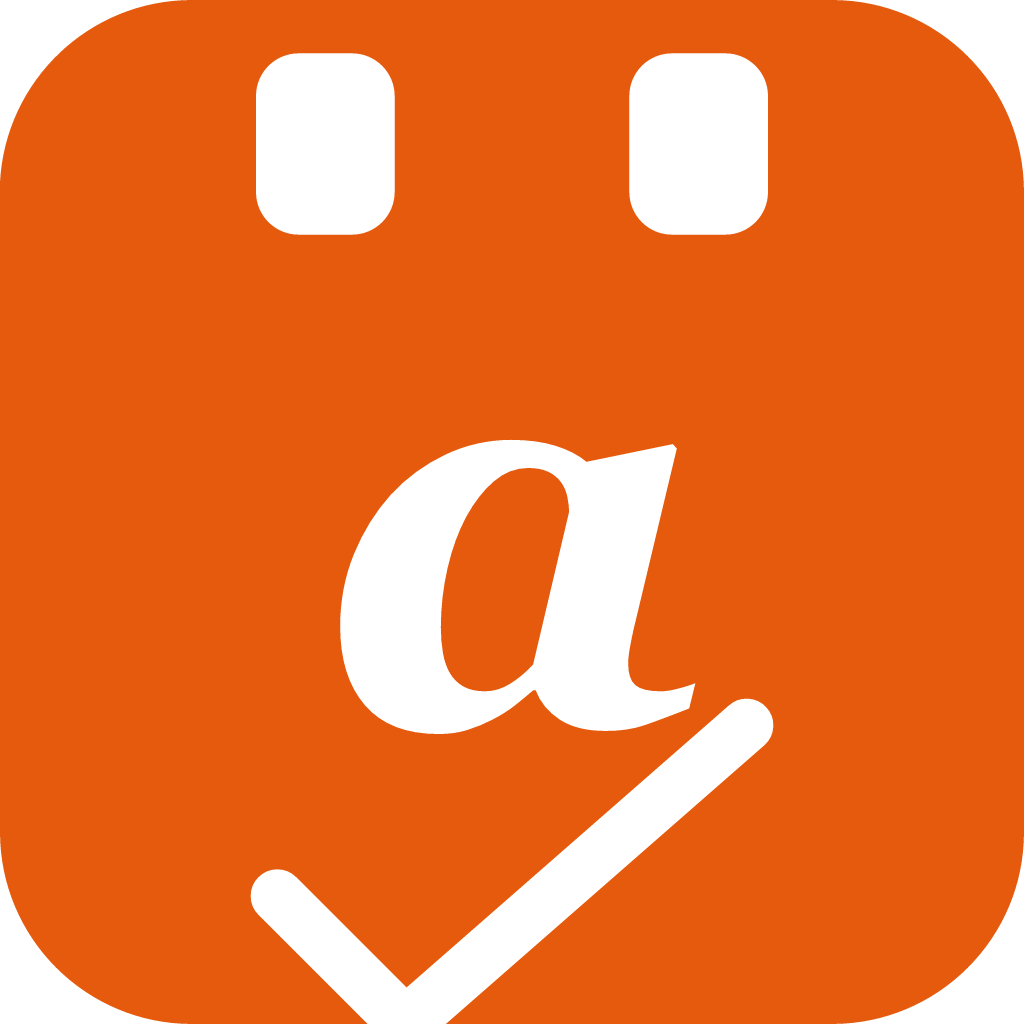
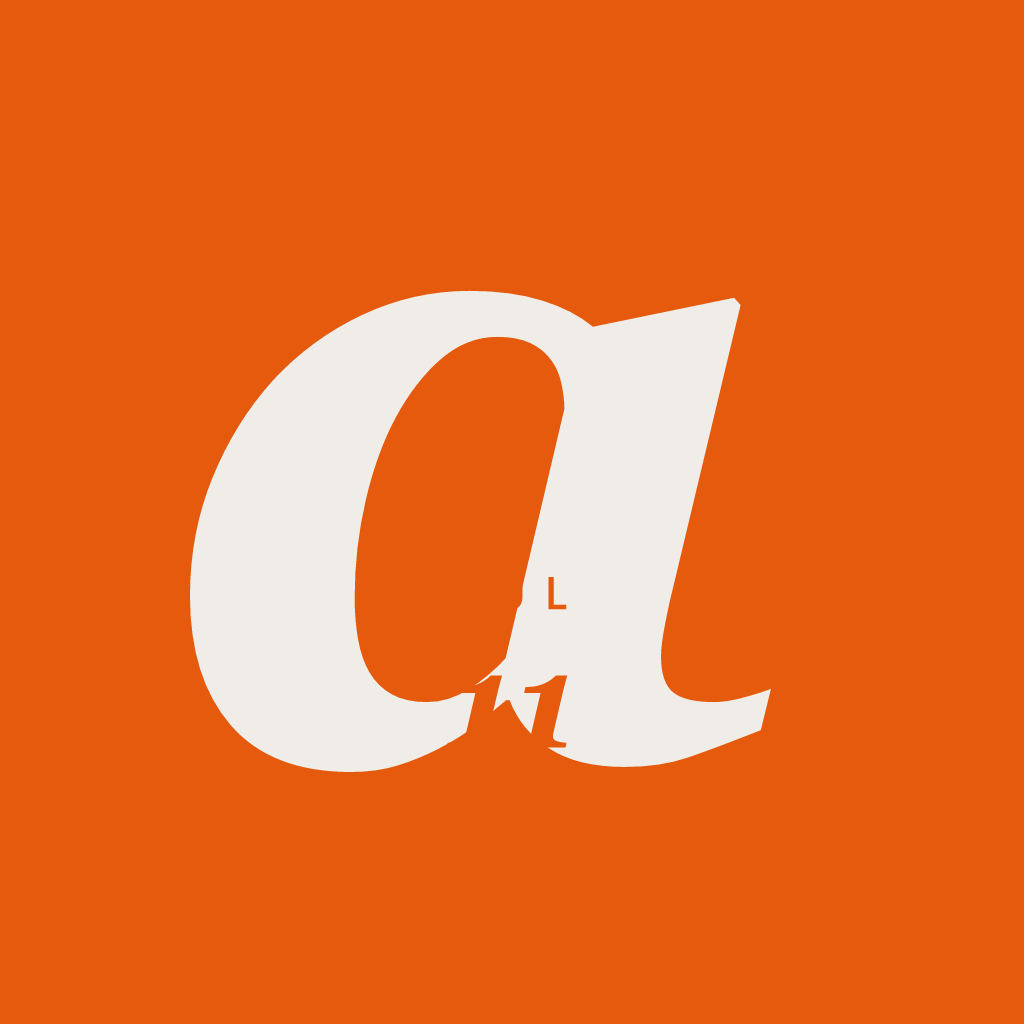
feat: identidade visual Agenda O Instante — mark, lockup, ícones PWA e OG v42
SVG mark com 'a' itálico Cormorant Garamond em fundo brasa #E55A0C, variantes bone/ink/small,
lockup horizontal, wordmark. PNGs gerados (96/192/512/1024, maskable, apple-touch, OG).
Favicon SVG atualizado, manifest.json com cores e ícones da nova marca.
Heads e lockups de agendar.html, painel.html, index.html, admin.html, marketplace.html,
onboarding.html atualizados.

diff --git a/generate-icons.js b/generate-icons.js
@@ -1,0 +1,153 @@
+// generate-icons.js — gera todos os PNG da marca usando @resvg/resvg-js
+// Uso: node generate-icons.js
+
+const { Resvg } = require('@resvg/resvg-js');
+const fs = require('fs');
+const path = require('path');
+
+const RESVG_OPTS = {
+  font: {
+    loadSystemFonts: true,
+    serifFamily: 'Georgia',
+    sansSerifFamily: 'Segoe UI',
+  },
+  shapeRendering: 2,
+  textRendering: 1,
+  imageRendering: 0,
+};
+
+function renderPng(svgStr, size) {
+  const resvg = new Resvg(svgStr, {
+    ...RESVG_OPTS,
+    fitTo: { mode: 'width', value: size },
+  });
+  return resvg.render().asPng();
+}
+
+// SVG mark com inscrição (para ≥ 96px)
+const markFull = `<svg xmlns="http://www.w3.org/2000/svg" viewBox="0 0 200 200">
+  <rect width="200" height="200" fill="#E55A0C"/>
+  <text font-family="Georgia, serif" font-style="italic" font-weight="700" fill="#F0EDE8"
+    x="92" y="148" font-size="184" text-anchor="middle">a</text>
+  <text font-family="'Segoe UI', Arial, sans-serif" font-weight="600" fill="#E55A0C"
+    x="100" y="119" font-size="9" text-anchor="middle" letter-spacing="3.6">JUL</text>
+  <text font-family="Georgia, serif" font-style="italic" font-weight="700" fill="#E55A0C"
+    x="100" y="146" font-size="26" text-anchor="middle">11</text>
+</svg>`;
+
+// SVG mark sem inscrição (para < 96px — favicons)
+const markSmall = `<svg xmlns="http://www.w3.org/2000/svg" viewBox="0 0 200 200">
+  <rect width="200" height="200" rx="36" fill="#E55A0C"/>
+  <text font-family="Georgia, serif" font-style="italic" font-weight="700" fill="#F0EDE8"
+    x="92" y="152" font-size="184" text-anchor="middle">a</text>
+</svg>`;
+
+// SVG mark maskable — com padding 20% (safe-zone iOS/Android)
+const markMaskable = `<svg xmlns="http://www.w3.org/2000/svg" viewBox="0 0 200 200">
+  <rect width="200" height="200" fill="#E55A0C"/>
+  <g transform="translate(20,20) scale(0.8)">
+    <text font-family="Georgia, serif" font-style="italic" font-weight="700" fill="#F0EDE8"
+      x="92" y="148" font-size="184" text-anchor="middle">a</text>
+    <text font-family="'Segoe UI', Arial, sans-serif" font-weight="600" fill="#E55A0C"
+      x="100" y="119" font-size="9" text-anchor="middle" letter-spacing="3.6">JUL</text>
+    <text font-family="Georgia, serif" font-style="italic" font-weight="700" fill="#E55A0C"
+      x="100" y="146" font-size="26" text-anchor="middle">11</text>
+  </g>
+</svg>`;
+
+// OG image 1200x630
+const ogImage = `<svg xmlns="http://www.w3.org/2000/svg" viewBox="0 0 1200 630">
+  <rect width="1200" height="630" fill="#0E0E0F"/>
+  <!-- Mark 400x400 centrado verticalmente à esquerda -->
+  <g transform="translate(115,115)">
+    <rect width="400" height="400" fill="#E55A0C"/>
+    <text font-family="Georgia, serif" font-style="italic" font-weight="700" fill="#F0EDE8"
+      x="184" y="296" font-size="368" text-anchor="middle">a</text>
+    <text font-family="'Segoe UI', Arial, sans-serif" font-weight="600" fill="#E55A0C"
+      x="200" y="238" font-size="18" text-anchor="middle" letter-spacing="7.2">JUL</text>
+    <text font-family="Georgia, serif" font-style="italic" font-weight="700" fill="#E55A0C"
+      x="200" y="292" font-size="52" text-anchor="middle">11</text>
+  </g>
+  <!-- Separador -->
+  <rect x="580" y="140" width="1" height="350" fill="#F0EDE8" opacity="0.15"/>
+  <!-- Wordmark -->
+  <text font-family="Georgia, serif" font-style="italic" font-weight="700" fill="#F0EDE8"
+    x="620" y="360" font-size="120" letter-spacing="-1">agenda</text>
+  <!-- Tagline -->
+  <text font-family="'Segoe UI', Arial, sans-serif" fill="#A09890"
+    x="622" y="410" font-size="26" letter-spacing="2">o tempo, com intenção</text>
+</svg>`;
+
+// OG quadrado 1200x1200
+const ogSquare = `<svg xmlns="http://www.w3.org/2000/svg" viewBox="0 0 1200 1200">
+  <rect width="1200" height="1200" fill="#0E0E0F"/>
+  <g transform="translate(200,240)">
+    <rect width="800" height="800" fill="#E55A0C"/>
+    <text font-family="Georgia, serif" font-style="italic" font-weight="700" fill="#F0EDE8"
+      x="368" y="592" font-size="736" text-anchor="middle">a</text>
+    <text font-family="'Segoe UI', Arial, sans-serif" font-weight="600" fill="#E55A0C"
+      x="400" y="476" font-size="36" text-anchor="middle" letter-spacing="14.4">JUL</text>
+    <text font-family="Georgia, serif" font-style="italic" font-weight="700" fill="#E55A0C"
+      x="400" y="584" font-size="104" text-anchor="middle">11</text>
+  </g>
+  <text font-family="Georgia, serif" font-style="italic" font-weight="700" fill="#F0EDE8"
+    x="600" y="1110" font-size="80" text-anchor="middle" letter-spacing="-1">agenda</text>
+</svg>`;
+
+const jobs = [
+  // PWA icons (com inscrição)
+  { svg: markFull,      size: 1024, out: 'icon-1024.png' },
+  { svg: markFull,      size: 512,  out: 'icon-512.png' },
+  { svg: markFull,      size: 192,  out: 'icon-192.png' },
+  { svg: markFull,      size: 96,   out: 'icon-96.png' },
+  // Maskable (safe-zone)
+  { svg: markMaskable,  size: 512,  out: 'icon-512-maskable.png' },
+  { svg: markMaskable,  size: 192,  out: 'icon-192-maskable.png' },
+  // Apple Touch Icon
+  { svg: markFull,      size: 180,  out: 'apple-touch-icon.png' },
+  // Favicons pequenos (sem inscrição)
+  { svg: markSmall,     size: 48,   out: 'favicon-48.png' },
+  { svg: markSmall,     size: 32,   out: 'favicon-32.png' },
+  { svg: markSmall,     size: 16,   out: 'favicon-16.png' },
+  // favicon.png geral
+  { svg: markFull,      size: 96,   out: 'favicon.png' },
+  // OG images (em subpasta og/)
+  { svg: ogImage,       size: 1200, out: 'og/og-image.png',  h: 630 },
+  { svg: ogSquare,      size: 1200, out: 'og/og-square.png' },
+];
+
+function ensureDir(filePath) {
+  const dir = path.dirname(filePath);
+  if (!fs.existsSync(dir)) fs.mkdirSync(dir, { recursive: true });
+}
+
+(async () => {
+  let ok = 0, fail = 0;
+  for (const job of jobs) {
+    try {
+      const opts = {
+        ...RESVG_OPTS,
+        fitTo: job.h
+          ? { mode: 'original' }
+          : { mode: 'width', value: job.size },
+      };
+      // Para OG com dimensões específicas, usar zoom
+      let svgStr = job.svg;
+      if (job.h) {
+        // Forçar dimensão via viewBox já definido no SVG
+        opts.fitTo = { mode: 'width', value: job.size };
+      }
+      const resvg = new Resvg(svgStr, opts);
+      const png = resvg.render().asPng();
+      const outPath = path.join(__dirname, job.out);
+      ensureDir(outPath);
+      fs.writeFileSync(outPath, png);
+      console.log(`✓ ${job.out} (${job.size}px)`);
+      ok++;
+    } catch (e) {
+      console.error(`✗ ${job.out}: ${e.message}`);
+      fail++;
+    }
+  }
+  console.log(`\nPronto: ${ok} gerados, ${fail} falhas`);
+})();

diff --git a/painel.html b/painel.html
@@ -6,14 +6,15 @@
   <meta name="viewport" content="width=device-width,initial-scale=1,viewport-fit=cover">
   <title>Painel — Agenda</title>
   <meta name="robots" content="noindex,nofollow">
-  <link rel="icon" type="image/png" href="/favicon.png">
-  <link rel="apple-touch-icon" href="/icon-192.png">
+  <link rel="icon" type="image/svg+xml" href="/favicon.svg">
+  <link rel="icon" type="image/png" sizes="32x32" href="/favicon-32.png">
+  <link rel="alternate icon" href="/favicon.png">
+  <link rel="apple-touch-icon" sizes="180x180" href="/apple-touch-icon.png">
   <link rel="manifest" href="/manifest.json">
+  <meta name="theme-color" content="#E55A0C">
   <link rel="preconnect" href="https://fonts.googleapis.com">
   <link rel="preconnect" href="https://fonts.gstatic.com" crossorigin>
-  <link
-    href="https://fonts.googleapis.com/css2?family=Sora:wght@600;700;800;900&family=Nunito+Sans:wght@400;600;700;800&family=Manrope:wght@400;600;700;800&family=JetBrains+Mono:wght@400;700&display=swap"
-    rel="stylesheet">
+  <link href="https://fonts.googleapis.com/css2?family=Cormorant+Garamond:ital,wght@0,500;1,500&family=Sora:wght@600;700;800;900&family=Nunito+Sans:wght@400;600;700;800&family=Manrope:wght@400;600;700;800&family=JetBrains+Mono:wght@400;700&display=swap" rel="stylesheet">
   <link rel="stylesheet" href="/css/tokens.css?v=30">
   <style>
     /* ── RESET ── */
@@ -3123,8 +3124,8 @@
   <div id="loginWrap">
     <div class="lbox">
       <div class="llogo">
-        <img src="/favicon.png" width="36" height="36" alt="Agenda" style="border-radius:8px;display:block;flex-shrink:0">
-        <span class="wordmark" style="font-size:22px;color:#fff">Agenda<span class="wm-dot"></span></span>
+        <img src="/brand/agenda-mark-small.svg" alt="" width="36" height="36" style="display:block;flex-shrink:0;border-radius:8px">
+        <span style="font-family:'Cormorant Garamond',Georgia,serif;font-style:italic;font-weight:500;font-size:24px;letter-spacing:-.01em;color:#F0EDE8;line-height:1">agenda</span>
       </div>
       <p class="lsub">Painel de gestão</p>
       <div class="login-erro" id="loginErro"></div>
@@ -3161,12 +3162,12 @@
     <!-- SIDEBAR (desktop) -->
     <aside class="app-sidebar">
       <a class="sb-logo" href="#" onclick="tabSidebar('agenda',document.querySelector('[data-tab=agenda]'));return false" style="text-decoration:none;cursor:pointer">
-        <img src="/favicon.png" width="28" height="28" alt="Agenda" style="border-radius:6px;display:block;flex-shrink:0">
-        <span class="sb-brand">AGENDA</span>
+        <img src="/brand/agenda-mark-small.svg" alt="" width="28" height="28" style="border-radius:6px;display:block;flex-shrink:0">
+        <span class="sb-brand" style="font-family:'Cormorant Garamond',Georgia,serif;font-style:italic;font-weight:500;letter-spacing:-.01em">agenda</span>
       </a>
       <nav class="sb-nav">
         <button class="sb-item tnav on" data-tab="agenda" onclick="tabSidebar('agenda',this)"> <span
-            class="sb-icon"><img src="/favicon.png" width="20" height="20" alt="" style="border-radius:5px;display:block"></span>Agenda</button>
+            class="sb-icon"><img src="/brand/agenda-mark-small.svg" alt="" width="20" height="20" style="border-radius:5px;display:block"></span>Agenda</button>
         <button class="sb-item tnav" data-tab="clientes" onclick="tabSidebar('clientes',this)"> <span
             class="sb-icon">👤</span>Clientes</button>
         <button class="sb-item tnav" data-tab="servicos" onclick="tabSidebar('servicos',this)"> <span
@@ -3190,7 +3191,7 @@
       <header class="topbar">
         <a class="topbar-logo-link" href="#"
           onclick="tabBottom('agenda',document.querySelector('[data-tab=agenda]'));return false">
-          <img src="/favicon.png" width="28" height="28" alt="Agenda" style="border-radius:6px;display:block">
+          <img src="/brand/agenda-mark-small.svg" alt="" width="28" height="28" style="border-radius:6px;display:block">
         </a>
         <div class="topbar-name" id="hdrNome">Carregando…</div>
         <div class="topbar-actions">
@@ -3231,7 +3232,7 @@
       <!-- BOTTOM NAV (mobile) -->
       <nav class="app-bottom">
         <button class="bnav-item tnav on" data-tab="agenda" onclick="tabBottom('agenda',this)"> <span
-            class="bnav-icon"><img src="/favicon.png" width="22" height="22" alt="" style="border-radius:5px;display:block"></span>Agenda</button>
+            class="bnav-icon"><img src="/brand/agenda-mark-small.svg" alt="" width="22" height="22" style="border-radius:5px;display:block"></span>Agenda</button>
         <button class="bnav-item tnav" data-tab="clientes" onclick="tabBottom('clientes',this)"> <span
             class="bnav-icon">👤</span>Clientes</button>
         <button class="bnav-item tnav" data-tab="servicos" onclick="tabBottom('servicos',this)"> <span

diff --git a/agendar.html b/agendar.html
@@ -12,10 +12,14 @@
 <meta name="twitter:title" id="twTitle" content="Agende seu horário — Agenda">
 <meta name="description" content="Agende seu horário online. Escolha o serviço, dia e horário em menos de 1 minuto.">
 <meta name="robots" content="index,follow">
-<link rel="icon" type="image/png" href="/favicon.png">
+<link rel="icon" type="image/svg+xml" href="/favicon.svg">
+<link rel="icon" type="image/png" sizes="32x32" href="/favicon-32.png">
+<link rel="alternate icon" href="/favicon.png">
+<link rel="apple-touch-icon" sizes="180x180" href="/apple-touch-icon.png">
+<meta name="theme-color" content="#E55A0C">
 <link rel="preconnect" href="https://fonts.googleapis.com">
 <link rel="preconnect" href="https://fonts.gstatic.com" crossorigin>
-<link href="https://fonts.googleapis.com/css2?family=Sora:wght@300;400;600;700;800&family=Nunito+Sans:wght@300;400;600&family=Manrope:wght@400;600;700;800&family=JetBrains+Mono:wght@400;700&display=swap" rel="stylesheet">
+<link href="https://fonts.googleapis.com/css2?family=Cormorant+Garamond:ital,wght@0,500;1,500&family=Sora:wght@300;400;600;700;800&family=Nunito+Sans:wght@300;400;600&family=Manrope:wght@400;600;700;800&family=JetBrains+Mono:wght@400;700&display=swap" rel="stylesheet">
 <link rel="stylesheet" href="/css/tokens.css?v=30">
 <style>
 /* ═══════════════════════════════════════════════════════════════
@@ -1011,9 +1015,10 @@ html.t-feminine .ag-confirm-bar { display: none; }
 }
 
 
-.wordmark{font-family:'Sora',sans-serif;font-weight:800;letter-spacing:-.04em;color:var(--text,#1D1D1F);display:inline-flex;align-items:baseline;line-height:1}
-.wm-dot{display:inline-block;width:.2em;height:.2em;border-radius:50%;background:#E55A0C;margin-left:2px;position:relative;top:-.52em;flex-shrink:0}
-.brand-lockup{display:inline-flex;align-items:center;gap:10px;text-decoration:none}
+.brand-lockup{display:inline-flex;align-items:center;gap:12px;text-decoration:none;color:inherit}
+.brand-mark{display:block;height:32px;width:32px;flex-shrink:0;border-radius:7px}
+.brand-wordmark{font-family:'Cormorant Garamond',Georgia,serif;font-style:italic;font-weight:500;font-size:22px;letter-spacing:-.01em;color:#fff;line-height:1}
+@media(max-width:480px){.brand-mark{height:28px;width:28px}.brand-wordmark{font-size:19px}}
 
 /* ── New theme system (Agenda v2) ── */
 html.t-azure{--c-primary:#3B82F6;--c-bg:#F0F4FF;--c-card:#fff;--c-text:#0F172A;--c-text2:#475569}
@@ -1353,17 +1358,19 @@ html.t-feminine .ws-srv-price{color:#AD1457}
 .cart-total-lbl{font-size:14px;color:var(--c-text-2);font-weight:600}
 .cart-total-val{font-family:var(--font-head);font-size:20px;font-weight:800;color:var(--c-text)}
 </style>
-  <meta property="og:image" content="https://agendatop.vercel.app/icon-512.png">
-  <meta name="twitter:image" content="https://agendatop.vercel.app/icon-512.png">
+  <meta property="og:image" content="https://agendatop.vercel.app/og/og-image.png">
+  <meta property="og:image:width" content="1200">
+  <meta property="og:image:height" content="630">
+  <meta name="twitter:image" content="https://agendatop.vercel.app/og/og-image.png">
 </head>
 <body>
 
 <!-- HEADER -->
 <header class="ag-header">
   <div class="ag-logo">
-    <a href="/" class="brand-lockup" style="display:inline-flex;align-items:center;gap:8px;text-decoration:none">
-      <img src="/favicon.png" width="32" height="32" alt="Agenda" style="border-radius:7px;display:block;flex-shrink:0">
-      <span class="ag-brand-word" style="font-family:'Sora',sans-serif;font-weight:800;font-size:22px;letter-spacing:-.04em;color:#fff;display:inline-flex;align-items:baseline;line-height:1;user-select:none;pointer-events:none">Agenda<span style="display:inline-block;width:4px;height:4px;border-radius:50%;background:#E55A0C;margin-left:2px;position:relative;top:-11px"></span></span>
+    <a href="/" class="brand-lockup">
+      <img src="/brand/agenda-mark-small.svg" alt="" class="brand-mark">
+      <span class="brand-wordmark">agenda</span>
     </a>
   </div>
   <div class="ag-salon-name" id="hdrName">Carregando…</div>

diff --git a/index.html b/index.html
@@ -11,14 +11,20 @@
 <meta name="twitter:card" content="summary_large_image">
 <meta property="og:title" content="Agenda — Agendamento online para qualquer profissional">
 <meta property="og:description" content="Crie sua página de agendamento em 3 minutos. Seus clientes marcam horário sozinhos, 24h por dia.">
-<meta property="og:image" content="https://agendatop.vercel.app/icon-512.png">
+<meta property="og:image" content="https://agendatop.vercel.app/og/og-image.png">
+<meta property="og:image:width" content="1200">
+<meta property="og:image:height" content="630">
 <meta property="og:url" content="https://agendatop.vercel.app/">
 <meta property="og:site_name" content="Agenda">
-<link rel="icon" type="image/png" href="/favicon.png">
+<link rel="icon" type="image/svg+xml" href="/favicon.svg">
+<link rel="icon" type="image/png" sizes="32x32" href="/favicon-32.png">
+<link rel="alternate icon" href="/favicon.png">
+<link rel="apple-touch-icon" sizes="180x180" href="/apple-touch-icon.png">
 <link rel="manifest" href="/manifest.json">
+<meta name="theme-color" content="#E55A0C">
 <link rel="preconnect" href="https://fonts.googleapis.com">
 <link rel="preconnect" href="https://fonts.gstatic.com" crossorigin>
-<link href="https://fonts.googleapis.com/css2?family=Sora:wght@300;400;600;700;800&family=Nunito+Sans:wght@300;400;600&family=Manrope:wght@400;600;700;800&family=JetBrains+Mono:wght@400;700&display=swap" rel="stylesheet">
+<link href="https://fonts.googleapis.com/css2?family=Cormorant+Garamond:ital,wght@0,500;1,500&family=Sora:wght@300;400;600;700;800&family=Nunito+Sans:wght@300;400;600&family=Manrope:wght@400;600;700;800&family=JetBrains+Mono:wght@400;700&display=swap" rel="stylesheet">
 <link rel="stylesheet" href="/css/tokens.css">
 <style>
 *{box-sizing:border-box;margin:0;padding:0;-webkit-tap-highlight-color:transparent}
@@ -286,10 +292,10 @@ footer strong{color:var(--text);font-weight:800}
 <!-- NAV -->
 <nav>
   <div class="logo-nav">
-    <div class="logo-inner brand-lockup">
-      <img src="/favicon.png" width="32" height="32" alt="Agenda" style="border-radius:7px;display:block;flex-shrink:0">
-      <span class="wordmark" style="font-size:17px">Agenda<span class="wm-dot"></span></span>
-    </div>
+    <a href="/" class="logo-inner" style="display:flex;align-items:center;gap:10px;text-decoration:none">
+      <img src="/brand/agenda-mark-small.svg" alt="" width="32" height="32" style="display:block;flex-shrink:0;border-radius:7px">
+      <span style="font-family:'Cormorant Garamond',Georgia,serif;font-style:italic;font-weight:500;font-size:22px;letter-spacing:-.01em;color:#F0EDE8;line-height:1">agenda</span>
+    </a>
     <div class="logo-line"></div>
   </div>
   <div class="nav-r">

diff --git a/onboarding.html b/onboarding.html
@@ -4,11 +4,16 @@
 <meta charset="UTF-8">
 <meta name="viewport" content="width=device-width,initial-scale=1,viewport-fit=cover">
 <title>Configurar minha Agenda</title>
-<link rel="icon" type="image/png" href="/favicon.png"><link rel="stylesheet" href="/design-tokens.css?v=1">
+<link rel="icon" type="image/svg+xml" href="/favicon.svg">
+<link rel="icon" type="image/png" sizes="32x32" href="/favicon-32.png">
+<link rel="alternate icon" href="/favicon.png">
+<link rel="apple-touch-icon" sizes="180x180" href="/apple-touch-icon.png">
+<meta name="theme-color" content="#E55A0C">
+<link rel="stylesheet" href="/design-tokens.css?v=1">
 <link rel="stylesheet" href="/css/tokens.css">
 <link rel="preconnect" href="https://fonts.googleapis.com">
 <link rel="preconnect" href="https://fonts.gstatic.com" crossorigin>
-<link href="https://fonts.googleapis.com/css2?family=Sora:wght@300;400;600;700;800&family=Nunito+Sans:wght@300;400;600&family=Manrope:wght@400;600;700;800&family=JetBrains+Mono:wght@400;700&display=swap" rel="stylesheet">
+<link href="https://fonts.googleapis.com/css2?family=Cormorant+Garamond:ital,wght@0,500;1,500&family=Sora:wght@300;400;600;700;800&family=Nunito+Sans:wght@300;400;600&family=Manrope:wght@400;600;700;800&family=JetBrains+Mono:wght@400;700&display=swap" rel="stylesheet">
 <style>
 *{box-sizing:border-box;margin:0;padding:0}
 body{font-family:var(--font-body,'Nunito Sans',sans-serif);background:#0C0A09;color:#fff;min-height:100vh;-webkit-font-smoothing:antialiased}
@@ -105,6 +110,9 @@ select.onb-input option{background:#1A1714;color:#fff}
 </style>
 </head>
 <body>
+<div style="text-align:center;padding:20px 0 4px;background:#0C0A09">
+  <img src="/brand/agenda-mark-small.svg" alt="agenda" width="48" height="48" style="border-radius:11px;display:inline-block">
+</div>
 <div class="onb-progress-track">
   <div class="onb-progress-fill" id="progressFill" style="width:20%"></div>
 </div>

diff --git a/marketplace.html b/marketplace.html
@@ -6,11 +6,14 @@
 <title>Agenda — Encontre profissionais perto de você</title>
   <meta property="og:image" content="https://agendatop.vercel.app/icon-512.png">
 <meta name="description" content="Descubra profissionais próximos a você e agende online em segundos.">
-<link rel="icon" type="image/png" href="/favicon.png">
-<link rel="preconnect" href="https://fonts.googleapis.com">
+<link rel="icon" type="image/svg+xml" href="/favicon.svg">
+<link rel="icon" type="image/png" sizes="32x32" href="/favicon-32.png">
+<link rel="alternate icon" href="/favicon.png">
+<link rel="apple-touch-icon" sizes="180x180" href="/apple-touch-icon.png">
+<meta name="theme-color" content="#E55A0C">
 <link rel="preconnect" href="https://fonts.googleapis.com">
 <link rel="preconnect" href="https://fonts.gstatic.com" crossorigin>
-<link href="https://fonts.googleapis.com/css2?family=Sora:wght@300;400;600;700;800&family=Nunito+Sans:wght@300;400;600&family=Manrope:wght@400;600;700;800&family=JetBrains+Mono:wght@400;700&display=swap" rel="stylesheet">
+<link href="https://fonts.googleapis.com/css2?family=Cormorant+Garamond:ital,wght@0,500;1,500&family=Sora:wght@300;400;600;700;800&family=Nunito+Sans:wght@300;400;600&family=Manrope:wght@400;600;700;800&family=JetBrains+Mono:wght@400;700&display=swap" rel="stylesheet">
 <link rel="stylesheet" href="/css/tokens.css">
 <!-- Leaflet.js — OpenStreetMap (free, no API key) -->
 <link rel="stylesheet" href="https://cdnjs.cloudflare.com/ajax/libs/leaflet/1.9.4/leaflet.min.css">

diff --git a/admin.html b/admin.html
@@ -6,12 +6,15 @@
 <title>Admin — Agenda</title>
 <meta name="description" content="Painel administrativo Agenda.">
 <meta name="robots" content="noindex,nofollow">
-<link rel="icon" type="image/png" href="/favicon.png">
-<link rel="apple-touch-icon" href="/icon-192.png">
+<link rel="icon" type="image/svg+xml" href="/favicon.svg">
+<link rel="icon" type="image/png" sizes="32x32" href="/favicon-32.png">
+<link rel="alternate icon" href="/favicon.png">
+<link rel="apple-touch-icon" sizes="180x180" href="/apple-touch-icon.png">
 <link rel="manifest" href="/manifest-admin.json">
+<meta name="theme-color" content="#E55A0C">
 <link rel="preconnect" href="https://fonts.googleapis.com">
 <link rel="preconnect" href="https://fonts.gstatic.com" crossorigin>
-<link href="https://fonts.googleapis.com/css2?family=Sora:wght@300;400;600;700;800&family=Nunito+Sans:wght@300;400;600&family=Manrope:wght@400;600;700;800&family=JetBrains+Mono:wght@400;700&display=swap" rel="stylesheet">
+<link href="https://fonts.googleapis.com/css2?family=Cormorant+Garamond:ital,wght@0,500;1,500&family=Sora:wght@300;400;600;700;800&family=Nunito+Sans:wght@300;400;600&family=Manrope:wght@400;600;700;800&family=JetBrains+Mono:wght@400;700&display=swap" rel="stylesheet">
 <link rel="stylesheet" href="/css/tokens.css">
 <style>
 /* ═══ RESET ═══ */
